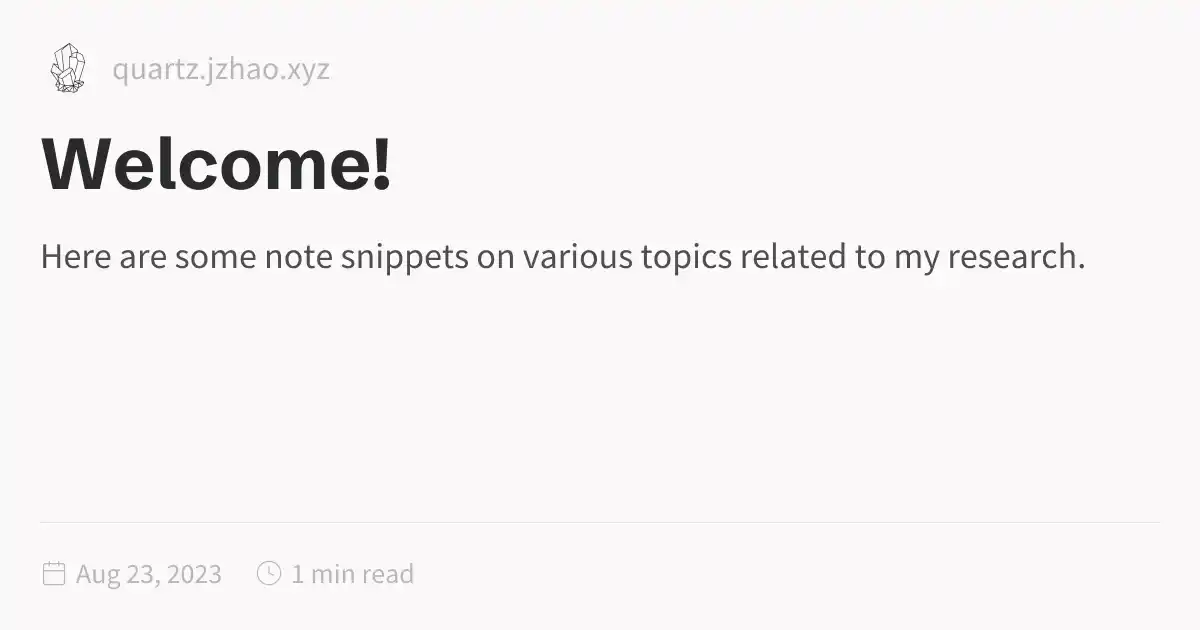
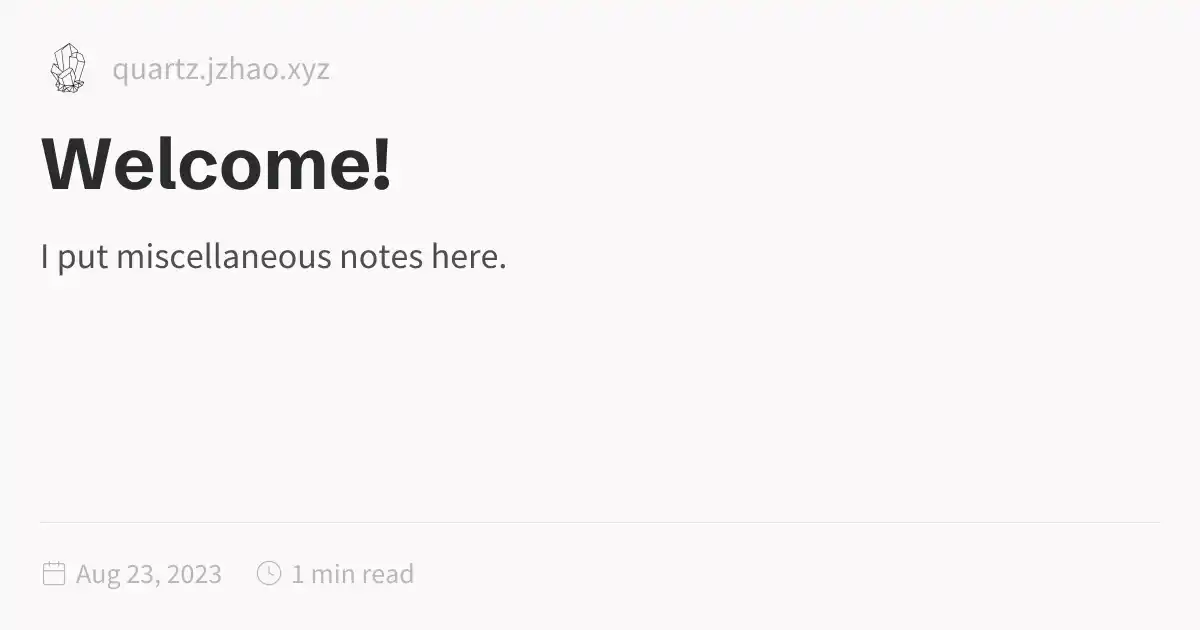
Push

Changed region(s): [[0.0308, 0.3921, 0.8942, 0.4524]]

diff --git a/miscellaneouspublicnotes/Miscellany/Playing-in-a-10+-Player-TTRPG-Game.html b/miscellaneouspublicnotes/Miscellany/Playing-in-a-10+-Player-TTRPG-Game.html
@@ -116,13 +116,13 @@ pre:hover > .expand-button {
   padding: 0 12px;
   font-size: 14px;
 }
[1 lines of base64/hex data omitted]
-<p>To smooth over the rough parts of large player games, here’s some extra expectations.</p>
[1 lines of base64/hex data omitted]
+<p>To smooth over the rough parts of large player games, here’s some extra expectations to plan for that we wouldn’t normally keep as strictly in a game with fewer players.</p>
 <h1 id="simultaneous-movement">Simultaneous Movement<a role="anchor" aria-hidden="true" tabindex="-1" data-no-popover="true" href="#simultaneous-movement" class="internal"><svg width="18" height="18" viewBox="0 0 24 24" fill="none" stroke="currentColor" stroke-width="2" stroke-linecap="round" stroke-linejoin="round"><path d="M10 13a5 5 0 0 0 7.54.54l3-3a5 5 0 0 0-7.07-7.07l-1.72 1.71"></path><path d="M14 11a5 5 0 0 0-7.54-.54l-3 3a5 5 0 0 0 7.07 7.07l1.71-1.71"></path></svg></a></h1>
-<p>The Dark Tower is a dangerous environment, and as such we won’t be using exploration turns at all during play, only <strong>Rounds</strong>. So your movement speed will be capped to your order in rounds. We’ll take all characters movement <em>simultaneously</em>, at the top of the turn order. You’ll have 10 seconds to move your character, and then we’ll begin any relevant actions the characters will perform.</p>
+<p>The Dark Tower is a dangerous environment, and as such we won’t be using exploration turns at all during play, only <strong>Rounds</strong>. So your movement speed will be capped to your movement speed during rounds rather than during exploration turns (on the order of 30’ +/- penalties rather than 90’, moving up to double that if not performing an action). We’ll take all characters movement <em>simultaneously</em>, at the top of the turn order. You’ll have 10 seconds to move your character, I’ll narrate what you see aas you move, and then we’ll begin any relevant actions the characters will perform.</p>
 <h1 id="turn-length">Turn Length<a role="anchor" aria-hidden="true" tabindex="-1" data-no-popover="true" href="#turn-length" class="internal"><svg width="18" height="18" viewBox="0 0 24 24" fill="none" stroke="currentColor" stroke-width="2" stroke-linecap="round" stroke-linejoin="round"><path d="M10 13a5 5 0 0 0 7.54.54l3-3a5 5 0 0 0-7.07-7.07l-1.72 1.71"></path><path d="M14 11a5 5 0 0 0-7.54-.54l-3 3a5 5 0 0 0 7.07 7.07l1.71-1.71"></path></svg></a></h1>
-<p>Optimally, each person’s turn during a large player game should take 5-10 seconds each. In practice it’s not going to happen every time. For instance, you may want to take an action you’re not sure how to <strong>Pre-Roll</strong> (see below), or you might slip up and not finish Pre-Rolling by the time it gets to your turn. But we need to set the expectation that you will more than often than not take such turns to ensure the game keeps moving, and players are not stuck waiting for their turn for large amounts of time.</p>
-<p>One way you can speed up your turn is by reviewing relevant rules of your character ahead of the game, so you can make informed decisions quickly during the game.</p>
+<p>Optimally, each person’s turn during a game with this many players should take 5-10 seconds each. In practice it’s not going to happen every time. For instance, you may want to take an action you’re not sure how to <strong>Pre-Roll</strong> (see below), or you might slip up and not finish Pre-Rolling by the time it gets to your turn. But we need to set the expectation that turns will be kept this short more often than not, to ensure the game keeps moving, and players are not stuck waiting for their turn for large amounts of time.</p>
+<p>Please review relevant rules / spell descriptions ahead of the game, so you can make informed decisions quickly during the game.</p>
 <p>You’re also welcome to take your character’s turn to ask questions about your surroundings. But to ensure things keep moving, understand that this’ll likely be the only thing you get to do during your turn (e.g. your character is taking the turn to examine the environment rather than take an action).</p>
 <p>If it’s not your turn, you can interrupt the turn order by calling a <strong>TIME OUT</strong> to roleplay, discuss plans collectively, etc. I’m not going to put any limitations on how many <strong>TIME OUTS</strong> can be called, or how long they can be, but understand that it’s all our collective responsibility to ensure the game keeps moving, so keep this in mind when calling <strong>TIME OUTS</strong>. I’ve also installed a chat client in Owlbear Rodeo so that if it’s not your turn you still have a way of communicating with other players without calling a <strong>TIME OUT</strong> or interrupting the progression of turns.</p>
 <h1 id="planning-in-advance-and-pre-rolling">Planning in Advance, and Pre-Rolling<a role="anchor" aria-hidden="true" tabindex="-1" data-no-popover="true" href="#planning-in-advance-and-pre-rolling" class="internal"><svg width="18" height="18" viewBox="0 0 24 24" fill="none" stroke="currentColor" stroke-width="2" stroke-linecap="round" stroke-linejoin="round"><path d="M10 13a5 5 0 0 0 7.54.54l3-3a5 5 0 0 0-7.07-7.07l-1.72 1.71"></path><path d="M14 11a5 5 0 0 0-7.54-.54l-3 3a5 5 0 0 0 7.07 7.07l1.71-1.71"></path></svg></a></h1>

diff --git a/miscellaneouspublicnotes/index.html b/miscellaneouspublicnotes/index.html
@@ -1,5 +1,5 @@
 <!DOCTYPE html>
-<html lang="en" dir="ltr"><head><title>Welcome!</title><meta charset="utf-8"/><link rel="preconnect" href="https://fonts.googleapis.com"/><link rel="preconnect" href="https://fonts.gstatic.com"/><link rel="stylesheet" href="https://fonts.googleapis.com/css2?family=Schibsted Grotesk:wght@400;700&amp;family=Source Sans Pro:ital,wght@0,400;0,600;1,400;1,600&amp;family=IBM Plex Mono:wght@400;600&amp;display=swap"/><link rel="preconnect" href="https://cdnjs.cloudflare.com" crossorigin="anonymous"/><meta name="viewport" content="width=device-width, initial-scale=1.0"/><meta name="og:site_name" content="Jacob Denson"/><meta property="og:title" content="Welcome!"/><meta property="og:type" content="website"/><meta name="twitter:card" content="summary_large_image"/><meta name="twitter:title" content="Welcome!"/><meta name="twitter:description" content="Here are some note snippets on various topics related to my research."/><meta property="og:description" content="Here are some note snippets on various topics related to my research."/><meta property="og:image:alt" content="Here are some note snippets on various topics related to my research."/><meta property="twitter:domain" content="quartz.jzhao.xyz"/><meta property="og:url" content="https://quartz.jzhao.xyz/index"/><meta property="twitter:url" content="https://quartz.jzhao.xyz/index"/><link rel="icon" href="./static/icon.png"/><meta name="description" content="Here are some note snippets on various topics related to my research."/><meta name="generator" content="Quartz"/><link href="./index.css" rel="stylesheet" type="text/css" spa-preserve/><style>.expand-button {
+<html lang="en" dir="ltr"><head><title>Welcome!</title><meta charset="utf-8"/><link rel="preconnect" href="https://fonts.googleapis.com"/><link rel="preconnect" href="https://fonts.gstatic.com"/><link rel="stylesheet" href="https://fonts.googleapis.com/css2?family=Schibsted Grotesk:wght@400;700&amp;family=Source Sans Pro:ital,wght@0,400;0,600;1,400;1,600&amp;family=IBM Plex Mono:wght@400;600&amp;display=swap"/><link rel="preconnect" href="https://cdnjs.cloudflare.com" crossorigin="anonymous"/><meta name="viewport" content="width=device-width, initial-scale=1.0"/><meta name="og:site_name" content="Jacob Denson"/><meta property="og:title" content="Welcome!"/><meta property="og:type" content="website"/><meta name="twitter:card" content="summary_large_image"/><meta name="twitter:title" content="Welcome!"/><meta name="twitter:description" content="I put miscellaneous notes here."/><meta property="og:description" content="I put miscellaneous notes here."/><meta property="og:image:alt" content="I put miscellaneous notes here."/><meta property="twitter:domain" content="quartz.jzhao.xyz"/><meta property="og:url" content="https://quartz.jzhao.xyz/index"/><meta property="twitter:url" content="https://quartz.jzhao.xyz/index"/><link rel="icon" href="./static/icon.png"/><meta name="description" content="I put miscellaneous notes here."/><meta name="generator" content="Quartz"/><link href="./index.css" rel="stylesheet" type="text/css" spa-preserve/><style>.expand-button {
   position: absolute;
   display: flex;
   float: right;
@@ -116,7 +116,7 @@ pre:hover > .expand-button {
   padding: 0 12px;
   font-size: 14px;
 }
[2 lines of base64/hex data omitted]
                 s-3.542,0.634-4.898,1.688l-7.669-7.669C16.785,10.424,17,9.74,17,9c0-2.206-1.794-4-4-4S9,6.794,9,9s1.794,4,4,4
                 c0.74,0,1.424-0.215,2.019-0.567l7.669,7.669C21.634,21.458,21,23.154,21,25s0.634,3.542,1.688,4.897L10.024,42.562
                 C8.958,41.595,7.549,41,6,41c-3.309,0-6,2.691-6,6s2.691,6,6,6s6-2.691,6-6c0-1.035-0.263-2.009-0.726-2.86l12.829-12.829

diff --git a/miscellaneouspublicnotes/Miscellany/index.html b/miscellaneouspublicnotes/Miscellany/index.html
@@ -116,7 +116,7 @@ pre:hover > .expand-button {
   padding: 0 12px;
   font-size: 14px;
 }
[2 lines of base64/hex data omitted]
 </script><script type="module">function f(i,e){if(!i)return;function r(o){o.target===this&&(o.preventDefault(),o.stopPropagation(),e())}function t(o){o.key.startsWith("Esc")&&(o.preventDefault(),e())}i?.addEventListener("click",r),window.addCleanup(()=>i?.removeEventListener("click",r)),document.addEventListener("keydown",t),window.addCleanup(()=>document.removeEventListener("keydown",t))}function y(i){for(;i.firstChild;)i.removeChild(i.firstChild)}var h=class{constructor(e,r){this.container=e;this.content=r;this.setupEventListeners(),this.setupNavigationControls(),this.resetTransform()}isDragging=!1;startPan={x:0,y:0};currentPan={x:0,y:0};scale=1;MIN_SCALE=.5;MAX_SCALE=3;cleanups=[];setupEventListeners(){let e=this.onMouseDown.bind(this),r=this.onMouseMove.bind(this),t=this.onMouseUp.bind(this),o=this.resetTransform.bind(this);this.container.addEventListener("mousedown",e),document.addEventListener("mousemove",r),document.addEventListener("mouseup",t),window.addEventListener("resize",o),this.cleanups.push(()=>this.container.removeEventListener("mousedown",e),()=>document.removeEventListener("mousemove",r),()=>document.removeEventListener("mouseup",t),()=>window.removeEventListener("resize",o))}cleanup(){for(let e of this.cleanups)e()}setupNavigationControls(){let e=document.createElement("div");e.className="mermaid-controls";let r=this.createButton("+",()=>this.zoom(.1)),t=this.createButton("-",()=>this.zoom(-.1)),o=this.createButton("Reset",()=>this.resetTransform());e.appendChild(t),e.appendChild(o),e.appendChild(r),this.container.appendChild(e)}createButton(e,r){let t=document.createElement("button");return t.textContent=e,t.className="mermaid-control-button",t.addEventListener("click",r),window.addCleanup(()=>t.removeEventListener("click",r)),t}onMouseDown(e){e.button===0&&(this.isDragging=!0,this.startPan={x:e.clientX-this.currentPan.x,y:e.clientY-this.currentPan.y},this.container.style.cursor="grabbing")}onMouseMove(e){this.isDragging&&(e.preventDefault(),this.currentPan={x:e.clientX-this.startPan.x,y:e.clientY-this.startPan.y},this.updateTransform())}onMouseUp(){this.isDragging=!1,this.container.style.cursor="grab"}zoom(e){let r=Math.min(Math.max(this.scale+e,this.MIN_SCALE),this.MAX_SCALE),t=this.content.getBoundingClientRect(),o=t.width/2,n=t.height/2,c=r-this.scale;this.currentPan.x-=o*c,this.currentPan.y-=n*c,this.scale=r,this.updateTransform()}updateTransform(){this.content.style.transform=`translate(${this.currentPan.x}px, ${this.currentPan.y}px) scale(${this.scale})`}resetTransform(){this.scale=1;let e=this.content.querySelector("svg");this.currentPan={x:e.getBoundingClientRect().width/2,y:e.getBoundingClientRect().height/2},this.updateTransform()}},C=["--secondary","--tertiary","--gray","--light","--lightgray","--highlight","--dark","--darkgray","--codeFont"],E;document.addEventListener("nav",async()=>{let e=document.querySelector(".center").querySelectorAll("code.mermaid");if(e.length===0)return;E||=await import("https://cdnjs.cloudflare.com/ajax/libs/mermaid/11.4.0/mermaid.esm.min.mjs");let r=E.default,t=new WeakMap;for(let n of e)t.set(n,n.innerText);async function o(){for(let s of e){s.removeAttribute("data-processed");let a=t.get(s);a&&(s.innerHTML=a)}let n=C.reduce((s,a)=>(s[a]=window.getComputedStyle(document.documentElement).getPropertyValue(a),s),{}),c=document.documentElement.getAttribute("saved-theme")==="dark";r.initialize({startOnLoad:!1,securityLevel:"loose",theme:c?"dark":"base",themeVariables:{fontFamily:n["--codeFont"],primaryColor:n["--light"],primaryTextColor:n["--darkgray"],primaryBorderColor:n["--tertiary"],lineColor:n["--darkgray"],secondaryColor:n["--secondary"],tertiaryColor:n["--tertiary"],clusterBkg:n["--light"],edgeLabelBackground:n["--highlight"]}}),await r.run({nodes:e})}await o(),document.addEventListener("themechange",o),window.addCleanup(()=>document.removeEventListener("themechange",o));for(let n=0;n<e.length;n++){let v=function(){let g=l.querySelector("#mermaid-space"),m=l.querySelector(".mermaid-content");if(!m)return;y(m);let w=c.querySelector("svg").cloneNode(!0);m.appendChild(w),l.classList.add("active"),g.style.cursor="grab",u=new h(g,m)},M=function(){l.classList.remove("active"),u?.cleanup(),u=null},c=e[n],s=c.parentElement,a=s.querySelector(".clipboard-button"),d=s.querySelector(".expand-button"),p=window.getComputedStyle(a),L=a.offsetWidth+parseFloat(p.marginLeft||"0")+parseFloat(p.marginRight||"0");d.style.right=`calc(${L}px + 0.3rem)`,s.prepend(d);let l=s.querySelector("#mermaid-container");if(!l)return;let u=null;d.addEventListener("click",v),f(l,M),window.addCleanup(()=>{u?.cleanup(),d.removeEventListener("click",v)})}});
 </script><script type="application/javascript">
         const socket = new WebSocket('ws://localhost:3001')
